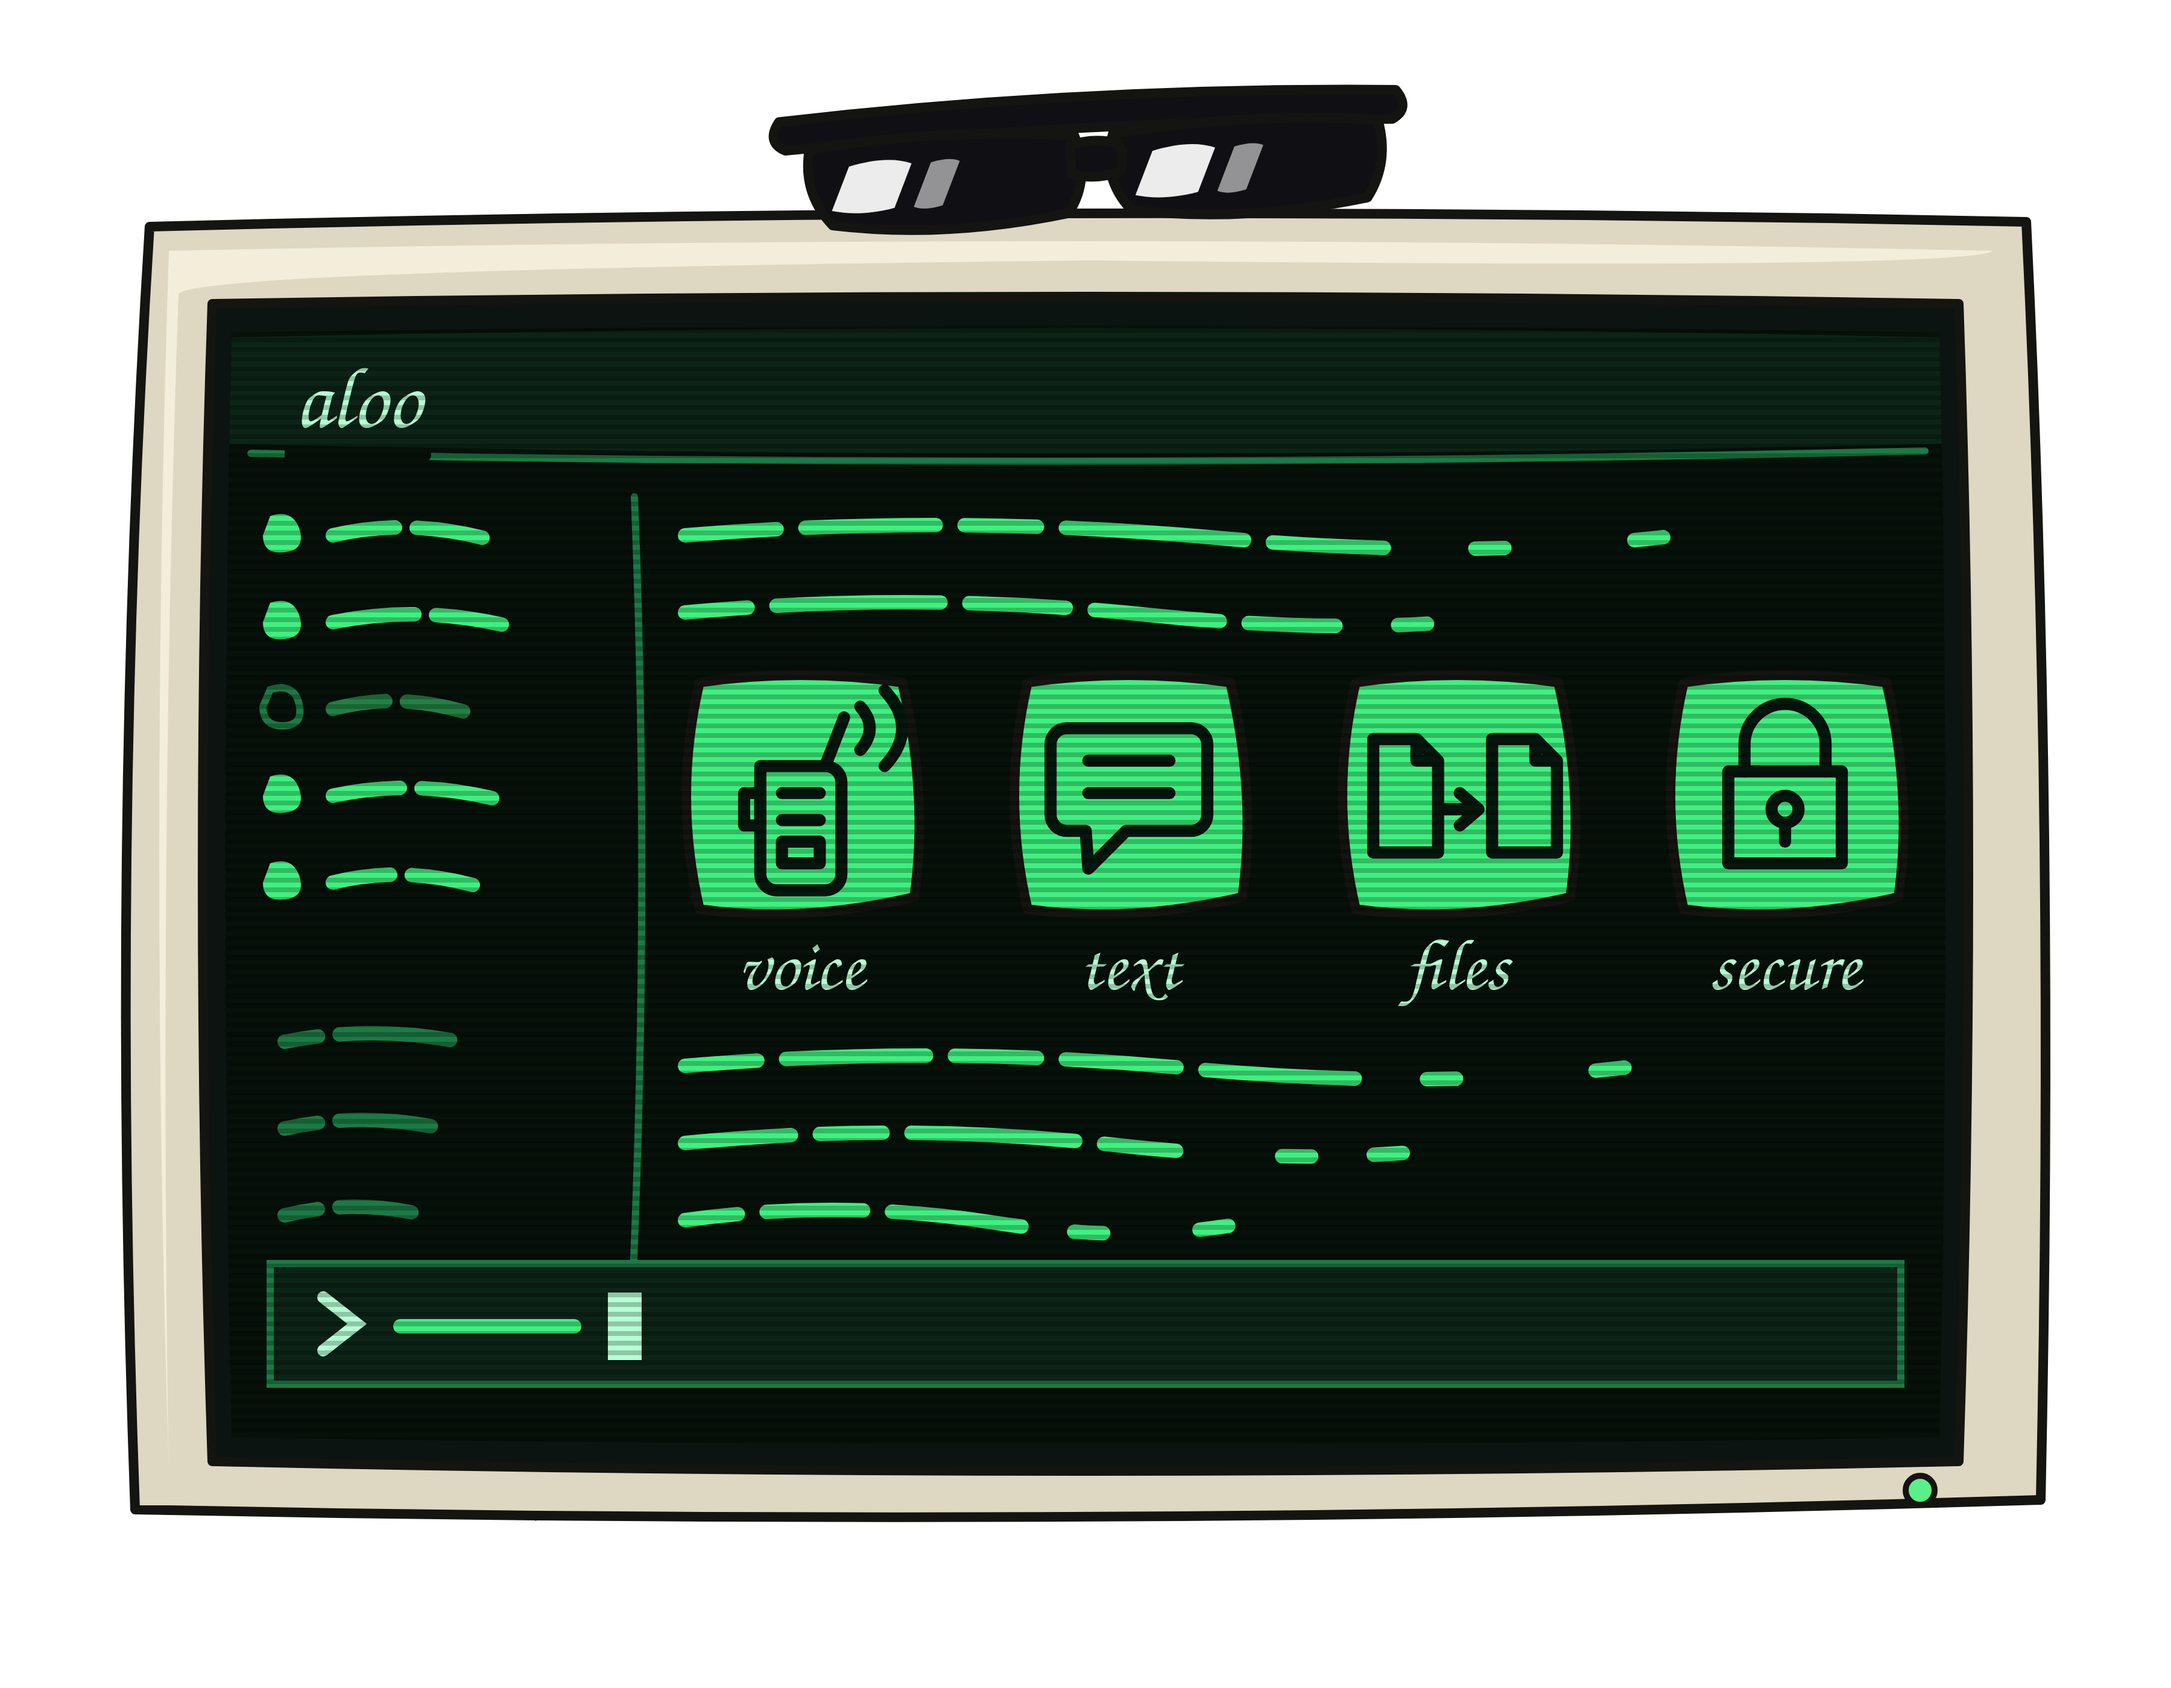
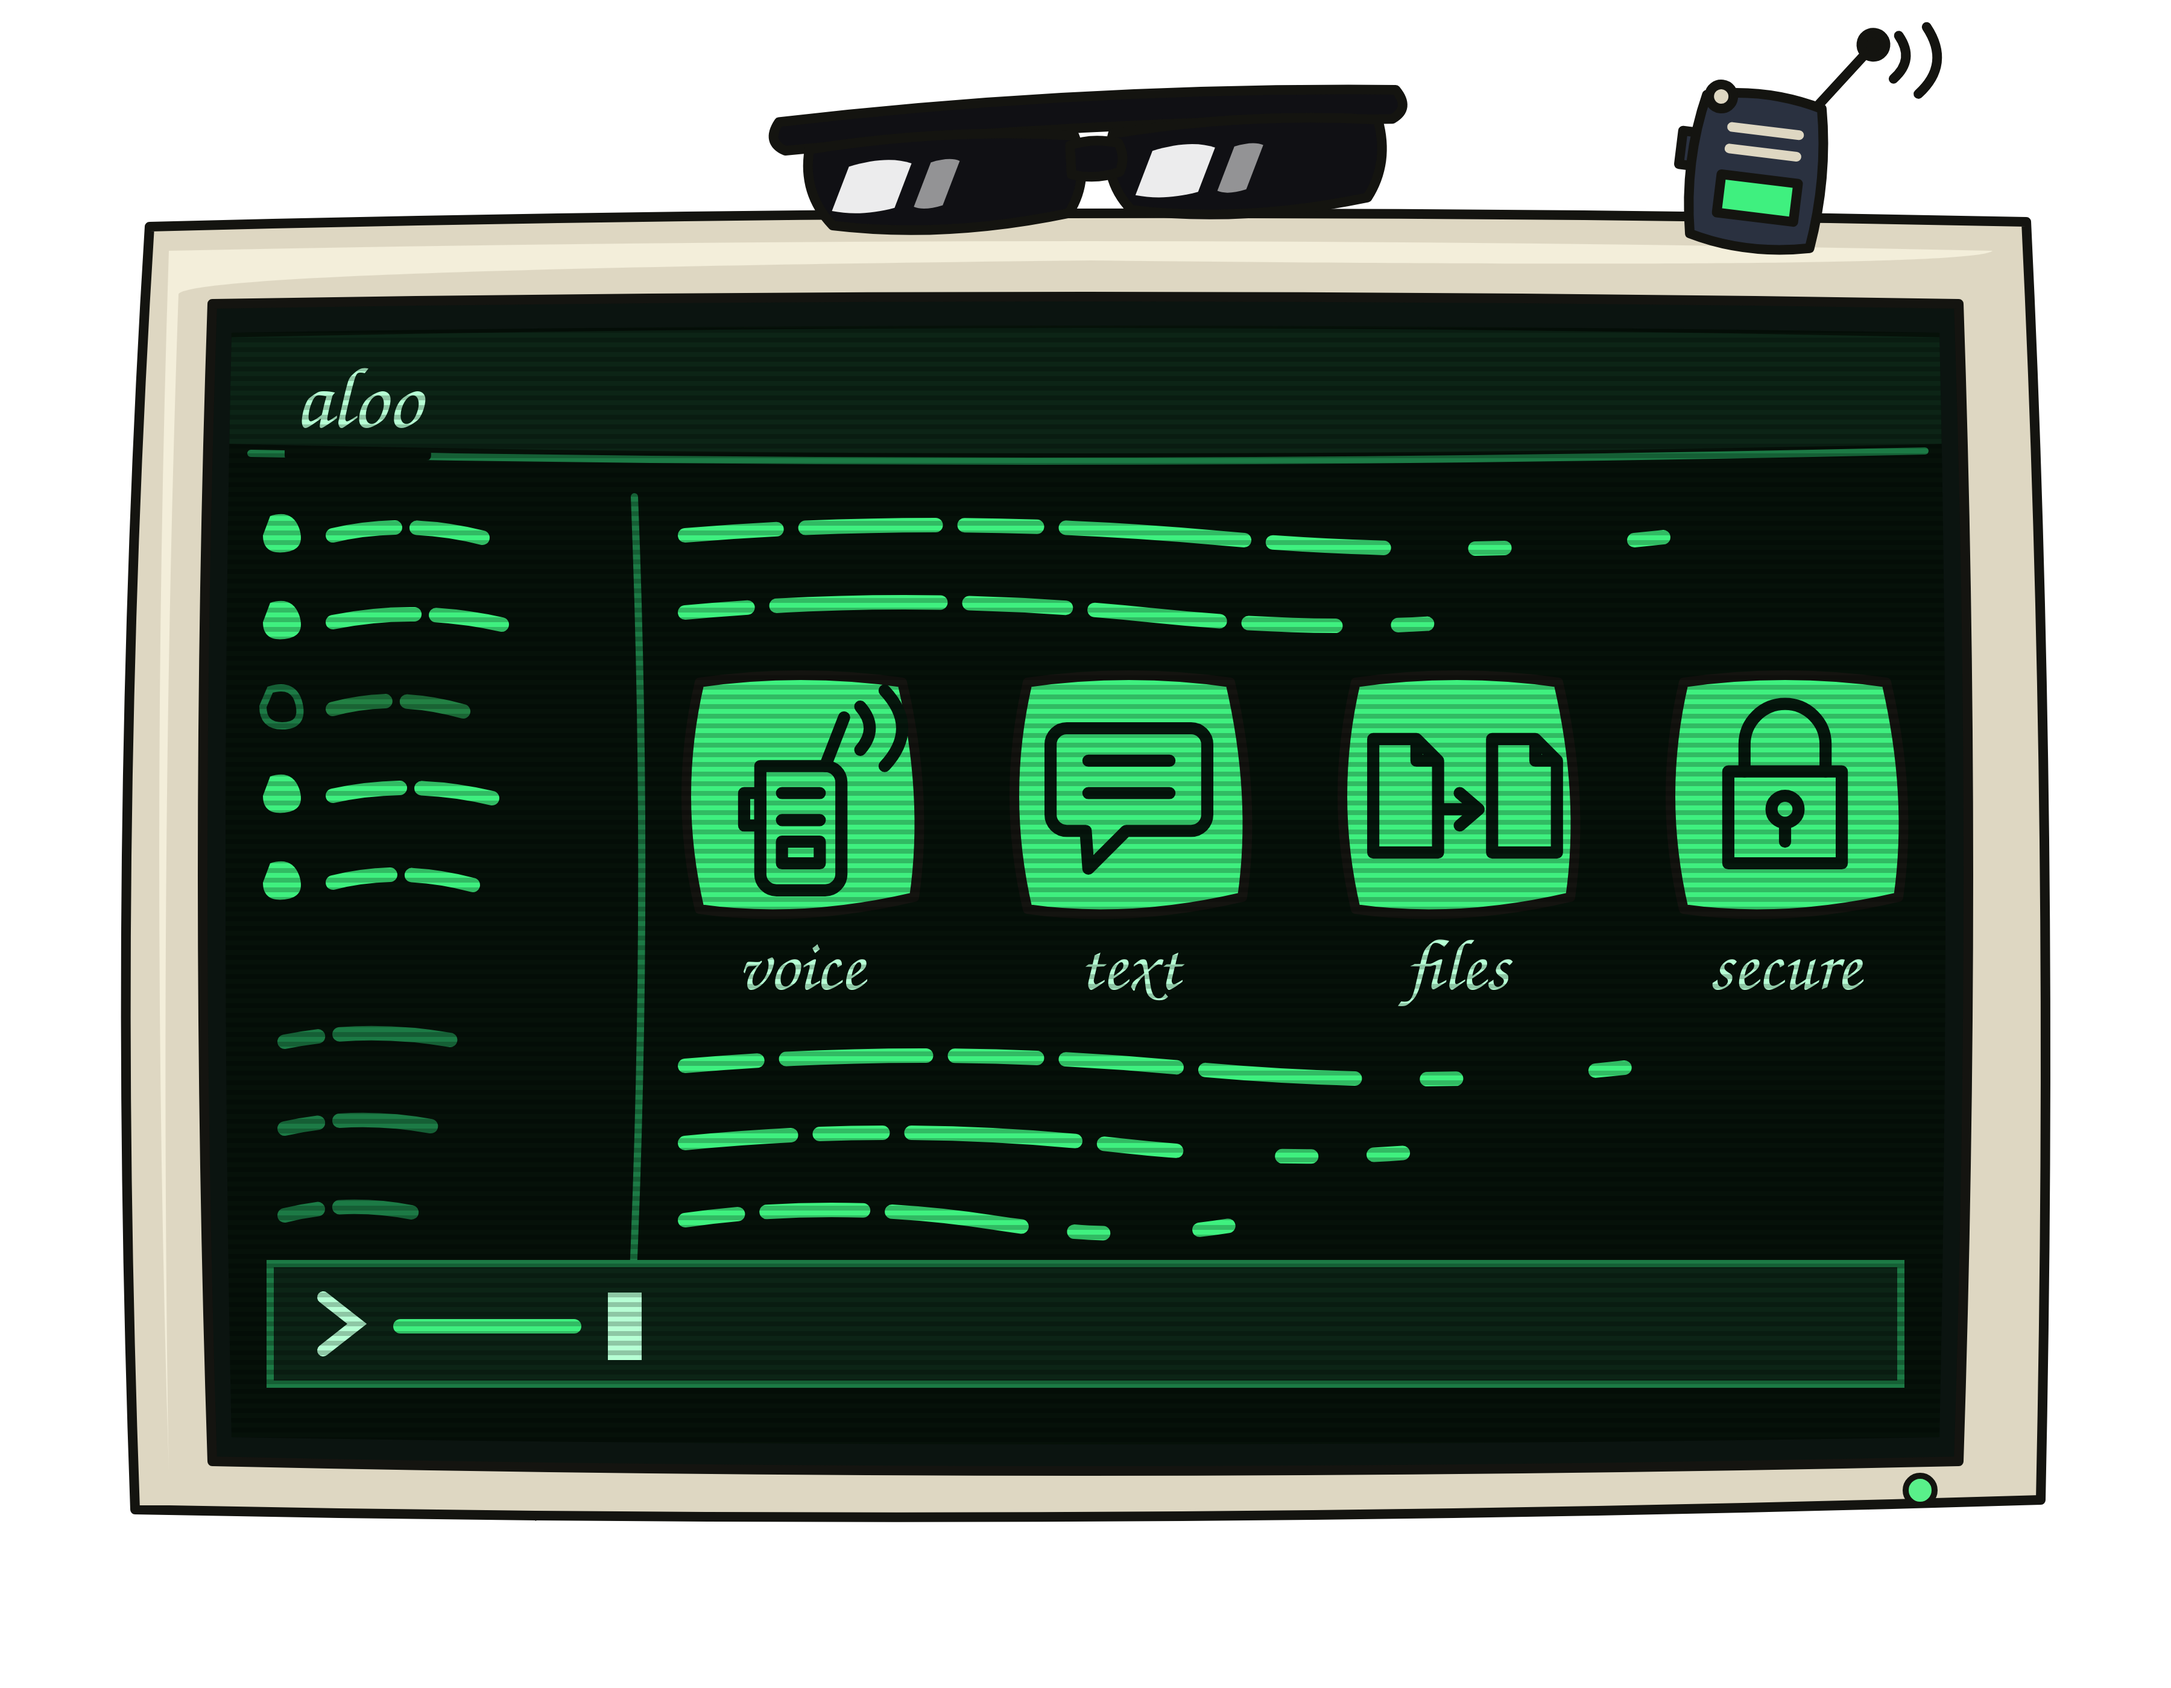
do not play end.wav when starting global ptt, only at the end

Changed region(s): [[0.7467, 0.0, 0.9022, 0.1554]]

diff --git a/src/session.rs b/src/session.rs
@@ -395,7 +395,6 @@ pub(crate) async fn run_connected_session(
                 match hotkey_ev {
                     crate::global_ptt::GlobalPttEvent::Pressed => {
                         if let Some(action @ UiAction::VoiceRecordStart(_)) = ui_state.global_record_start() {
-                            voice_stream::play_end_chime(&mut session);
                             handle_ui_action(action, &mut wr, &mut ui_state, &mut session).await?;
                         }
                     }

diff --git a/docs/SPEC.md b/docs/SPEC.md
@@ -154,7 +154,7 @@ When a tab is selected, the user joins that channel. The join is broadcast to al
    - **Jitter and mixing.** On the receiving end, a jitter buffer (a small per-source prebuffer before playback starts) absorbs ordinary arrival jitter between chunks so normal network/CPU timing variance doesn't produce audible gaps; multiple simultaneous incoming streams (two people talking near-simultaneously) are mixed together rather than queued one behind another.
    - **End-of-message chime.** A short "message ended" sound (`assets/end.wav`) plays through the same mixer both when the sender releases Space and when an incoming stream finishes, so both ends of a voice message get the same audible cue. Bundled as WAV rather than the project's original `assets/end.mp3` so it can be decoded (`voice::decode_wav_to_mono`) without an MP3 crate dependency - a WAV's PCM payload is read directly.
    - **Device handling.** Multi-channel input (an input device negotiating stereo-or-more, common even for a physically mono mic) is downmixed to a single mono sample per moment in time as it's captured, before anything else touches it. On Linux, capture/playback prefers a device routed through PulseAudio over whatever the raw ALSA host reports as default, when one is available - the plain ALSA host normally requires each process to have exclusive access to a device, which would otherwise make it impossible for two `aloo` clients on the same machine (the normal way to test a channel/DM locally) to both use the mic/speaker at once.
-   - **Global push-to-talk.** A second trigger, bound to **Ctrl+Alt+P** by default, does the same thing as holding Space - starts a live stream to whatever channel/DM was last active and stops it on release - but works even while `aloo` isn't the focused window, so speaking doesn't require switching back to the terminal first. Configurable in `~/.aloo/settings` (created with these defaults on first run if missing): `global_ptt_enabled` (`true`/`false`) and `global_ptt_shortcut` (any combo `global_hotkey::hotkey::HotKey` parses, e.g. `ctrl+alt+p`, `shift+F1`) - an unparseable shortcut falls back to the default with a startup warning rather than failing to start. Space and the global shortcut can never stop a recording the other one started; a global recording is never subject to Space's idle-silence auto-stop guess, since the OS always reports its release for real. Because there's no visible "recording..." indicator to see while the app isn't focused, the same end-of-message chime (above) also plays on the press, not just the release, of a globally-triggered recording. **Platform support:** Windows and macOS, and Linux under X11 only - Wayland compositors have no equivalent capability at all, so aloo detects this at startup and prints a one-line warning instead of registering (Space still works normally while the app is focused).
+   - **Global push-to-talk.** A second trigger, bound to **Ctrl+Alt+P** by default, does the same thing as holding Space - starts a live stream to whatever channel/DM was last active and stops it on release - but works even while `aloo` isn't the focused window, so speaking doesn't require switching back to the terminal first. Configurable in `~/.aloo/settings` (created with these defaults on first run if missing): `global_ptt_enabled` (`true`/`false`) and `global_ptt_shortcut` (any combo `global_hotkey::hotkey::HotKey` parses, e.g. `ctrl+alt+p`, `shift+F1`) - an unparseable shortcut falls back to the default with a startup warning rather than failing to start. Space and the global shortcut can never stop a recording the other one started; a global recording is never subject to Space's idle-silence auto-stop guess, since the OS always reports its release for real. Like Space, the end-of-message chime (above) plays only once, on release - there's no visible "recording..." indicator while the app isn't focused, but the chime firing mid-recording on press was found more confusing than helpful and was removed. **Platform support:** Windows and macOS, and Linux under X11 only - Wayland compositors have no equivalent capability at all, so aloo detects this at startup and prints a one-line warning instead of registering (Space still works normally while the app is focused).
 
 5. **Choose a nickname and have it enforced as unique.** The nickname is set in the connect popup (prefilled from the OS username, editable, no whitespace allowed, capped at 10 characters). On connecting, the server rejects the `Identify` request and closes the connection if that nickname is already in use by another currently-connected client; the client then returns to the popup with the error shown, ready to retry with a different nickname. The check is race-free: two simultaneous connection attempts for the same nickname can't both succeed. A nickname is freed again as soon as its holder disconnects.
 
